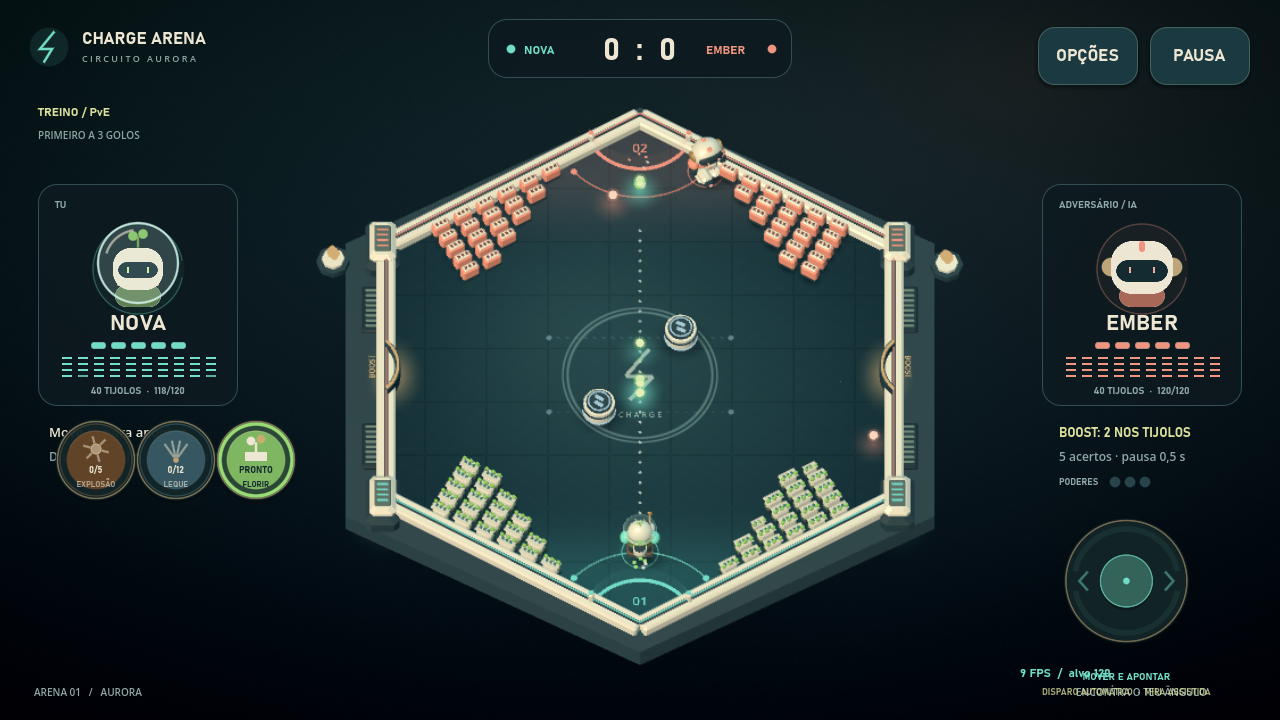
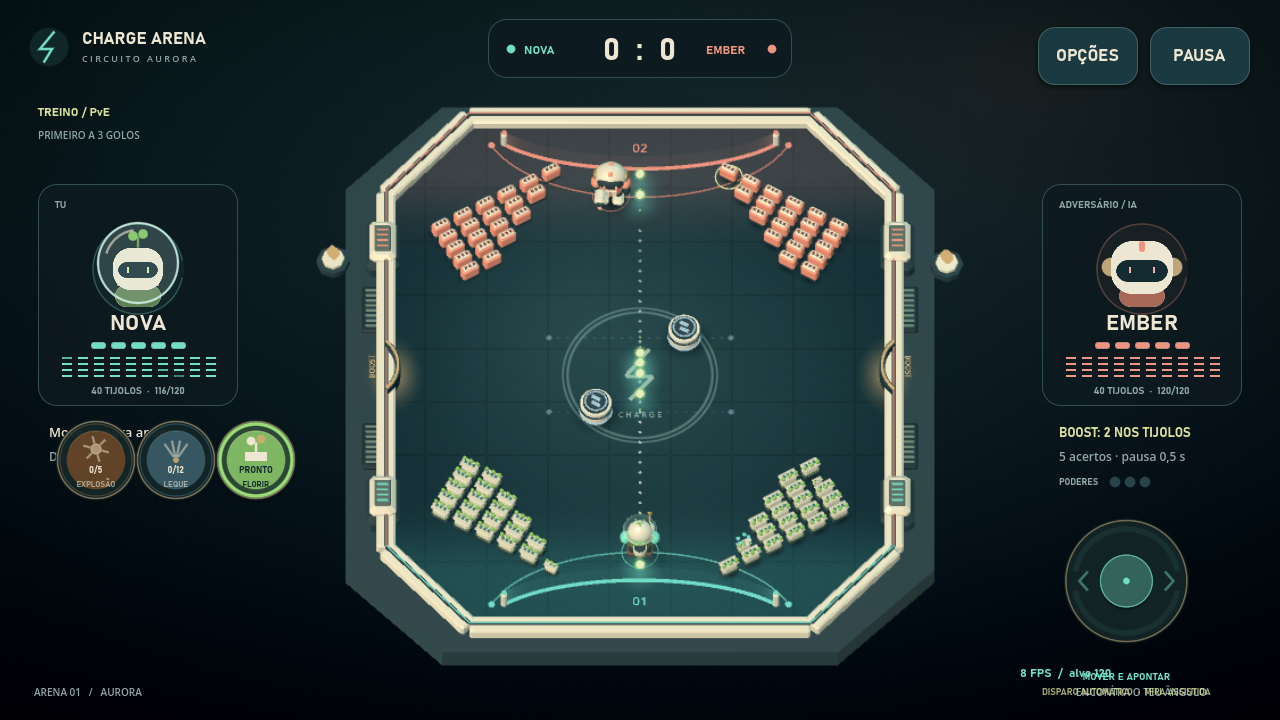
feat: carril em elipse, arenas de fundo largo e mira por varrimento
O alcance do piloto estava preso no próprio carril: era um círculo de raio 2,6
à volta da baliza, portanto nenhuma arena, por mais larga, o deixava afastar-se
mais do que isso do centro. Passa a ser uma elipse, 4,6 de largura por 2,6 de
profundidade.

As arenas acabavam em bico atrás das balizas, o que estrangulava o carril logo
nos 2,60. Três arenas novas de fundo largo — estádio, lente e desfiladeiro — e
os onze níveis reconstruídos sobre elas, sobre o octógono e sobre o coliseu. O
alcance lateral passa de 1,47 (antes de tudo isto) para 3,49 a 4,35.

Ao alargar o carril apareceu o reverso: nas pontas o piloto virava para fora e
os tiros saíam pela lateral, porque a viragem era um múltiplo fixo do ângulo do
carril, herança de quando o carril era minúsculo. Agora é geométrica — o piloto
olha para um ponto que varre o fundo da arena — e aponta sempre para dentro. Os
tiros que chegam a um tijolo passam de 41-57 em 61 para 44-58.

O direct_angle passa a resolver por bissecção: a curva de mira deixou de ter
declive simples, mas continua estritamente crescente, que é tudo o que uma
bissecção precisa.

Obstáculos móveis de volta, nenhum fixo no meio: deslizadores e órbitas colados
às paredes, faróis fixos nos cantos do nível 3 e defletores rentes às paredes no
nível 11. O jogo rápido deixa o hexágono antigo, onde o carril era tão curto que
a mira só varria 17 graus.

PvP: o toque do convidado num poder era descartado no anfitrião sem nova
[…]

diff --git a/README.md b/README.md
@@ -240,7 +240,7 @@ godot --headless --path . --script res://tests/test_pvp_powers.gd -- --host
 godot --headless --path . --script res://tests/test_pvp_powers.gd -- --client
 ```
 
-Os obstáculos de cada mapa vivem junto às paredes e aos cantos, nunca na rota central: servem para ricochete, não para tapar. Medido ângulo a ângulo, todos os níveis deixam agora passar tanto ou quase tanto como uma arena vazia. O arco do piloto vai até 0,85 rad — o máximo antes de o boneco roçar a parede do hexágono —, o que põe os aceleradores laterais ao alcance de 11 ângulos em vez de 5.
+O carril do piloto é uma **elipse** (4,6 de largura por 2,6 de profundidade), não um círculo: um círculo de raio 2,6 nunca deixaria o piloto afastar-se mais do que isso do centro, por mais larga que fosse a arena. Cada arena mede o seu próprio arco contra as suas paredes (`track_limit_for`), e as cinco da campanha — estádio, lente, desfiladeiro, octógono e coliseu — têm todas um fundo largo atrás das balizas, o que dá ao piloto 3,5 a 4,35 de alcance lateral (era 1,47). A mira acompanha: em vez de virar um múltiplo fixo do ângulo do carril, o piloto olha para um ponto que varre o fundo da arena, por isso aponta sempre para dentro do campo. Os obstáculos vivem junto às paredes e aos cantos, nunca na rota central: servem para ricochete, não para tapar.
 
 ## Ficheiros
 
